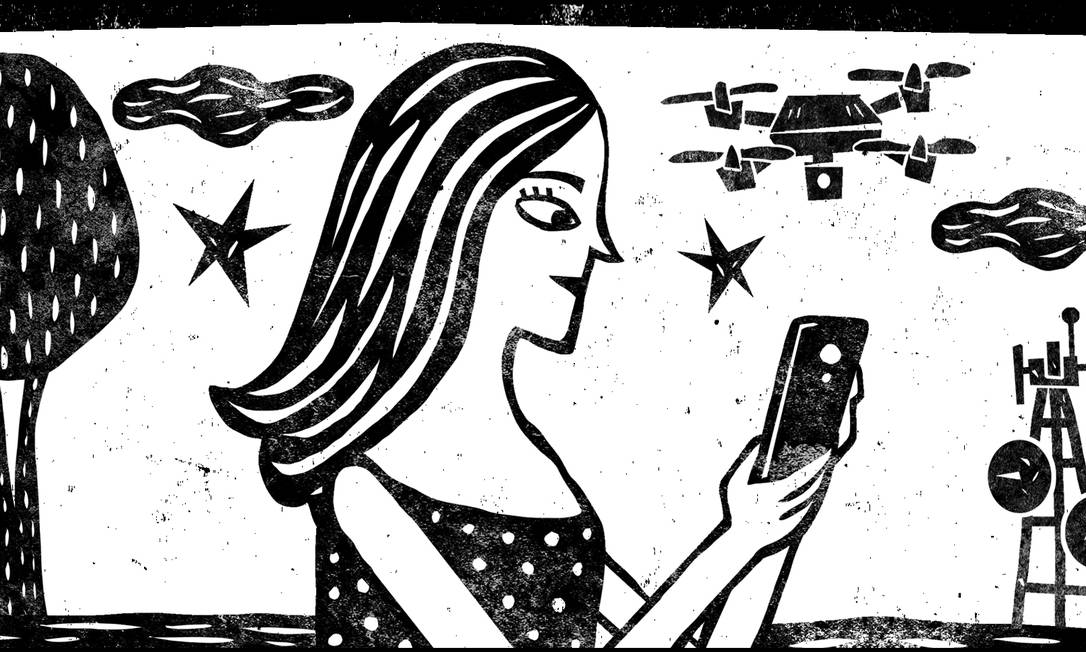
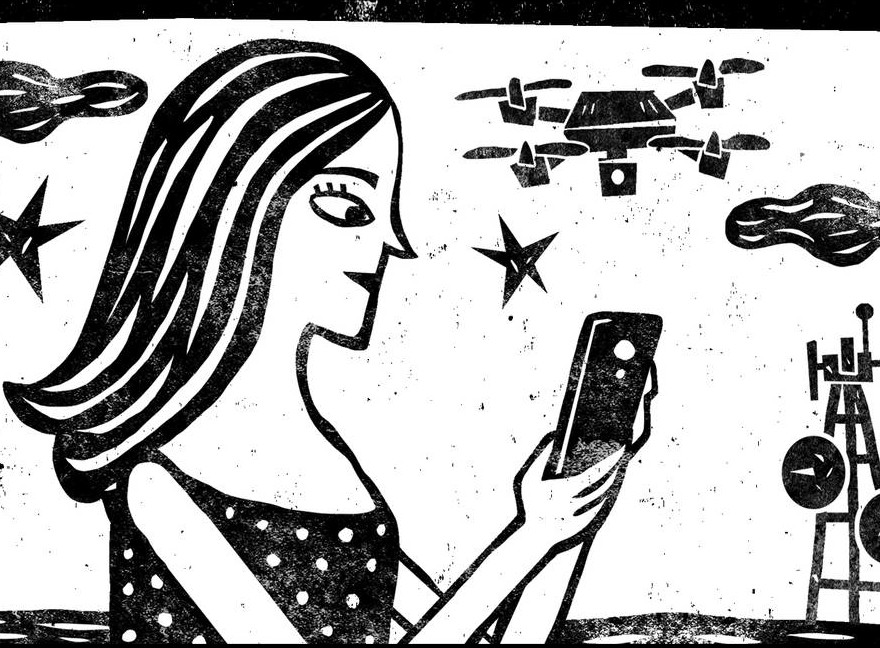
Atualizei a img1

diff --git a/style.css b/style.css
@@ -68,7 +68,7 @@ section.imagem{
 
 #img1{
     background-image: url('imagem/img1.jpg');
-    background-position:center;
+    background-position:left;
     background-size: cover;
     
 }
